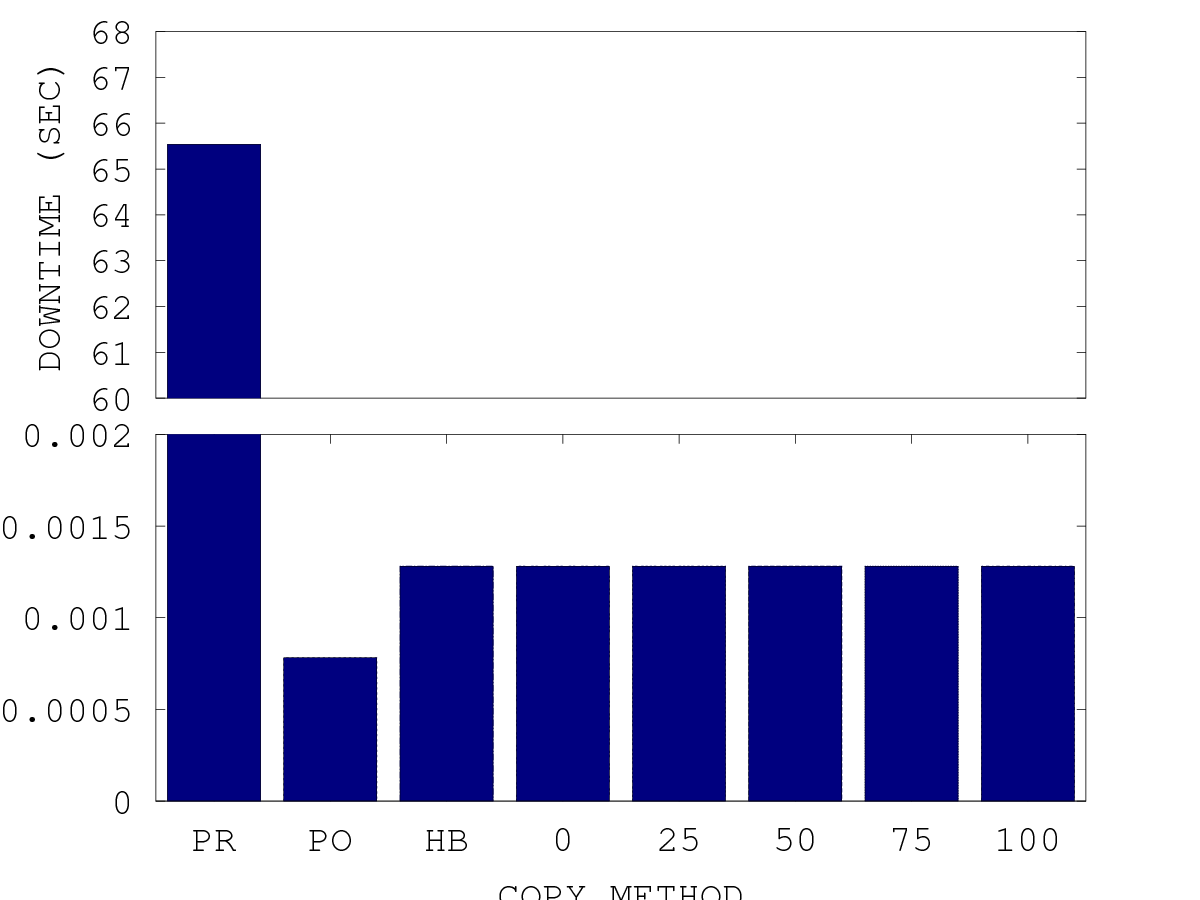
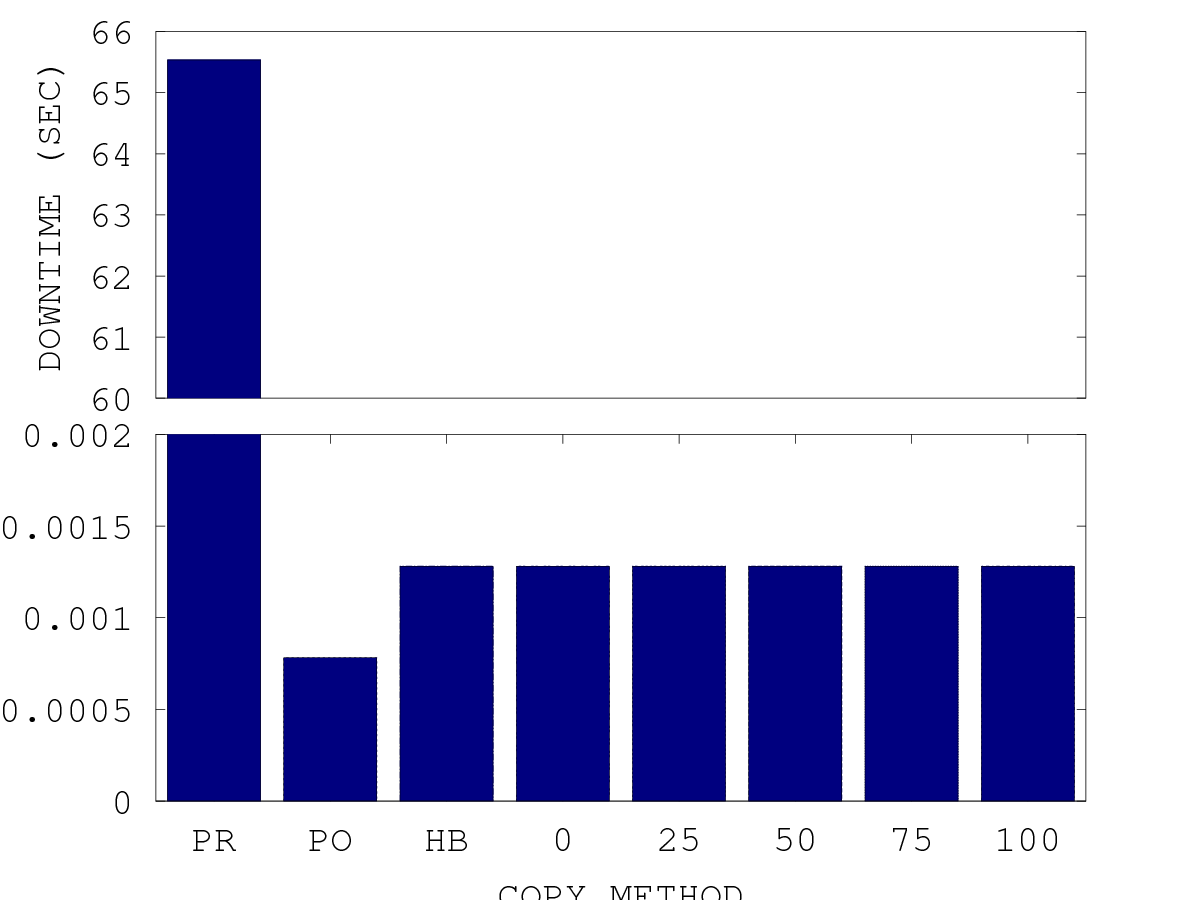
basic_break.m

diff --git a/basic_break.m b/basic_break.m
@@ -287,7 +287,7 @@ figure;
 output = strcat(prefix, ".dt");
 
 ylim1 = [0 0.002];
-ylim2 = [60 68];
+ylim2 = [60 66];
 
 %cla;
 clf;
